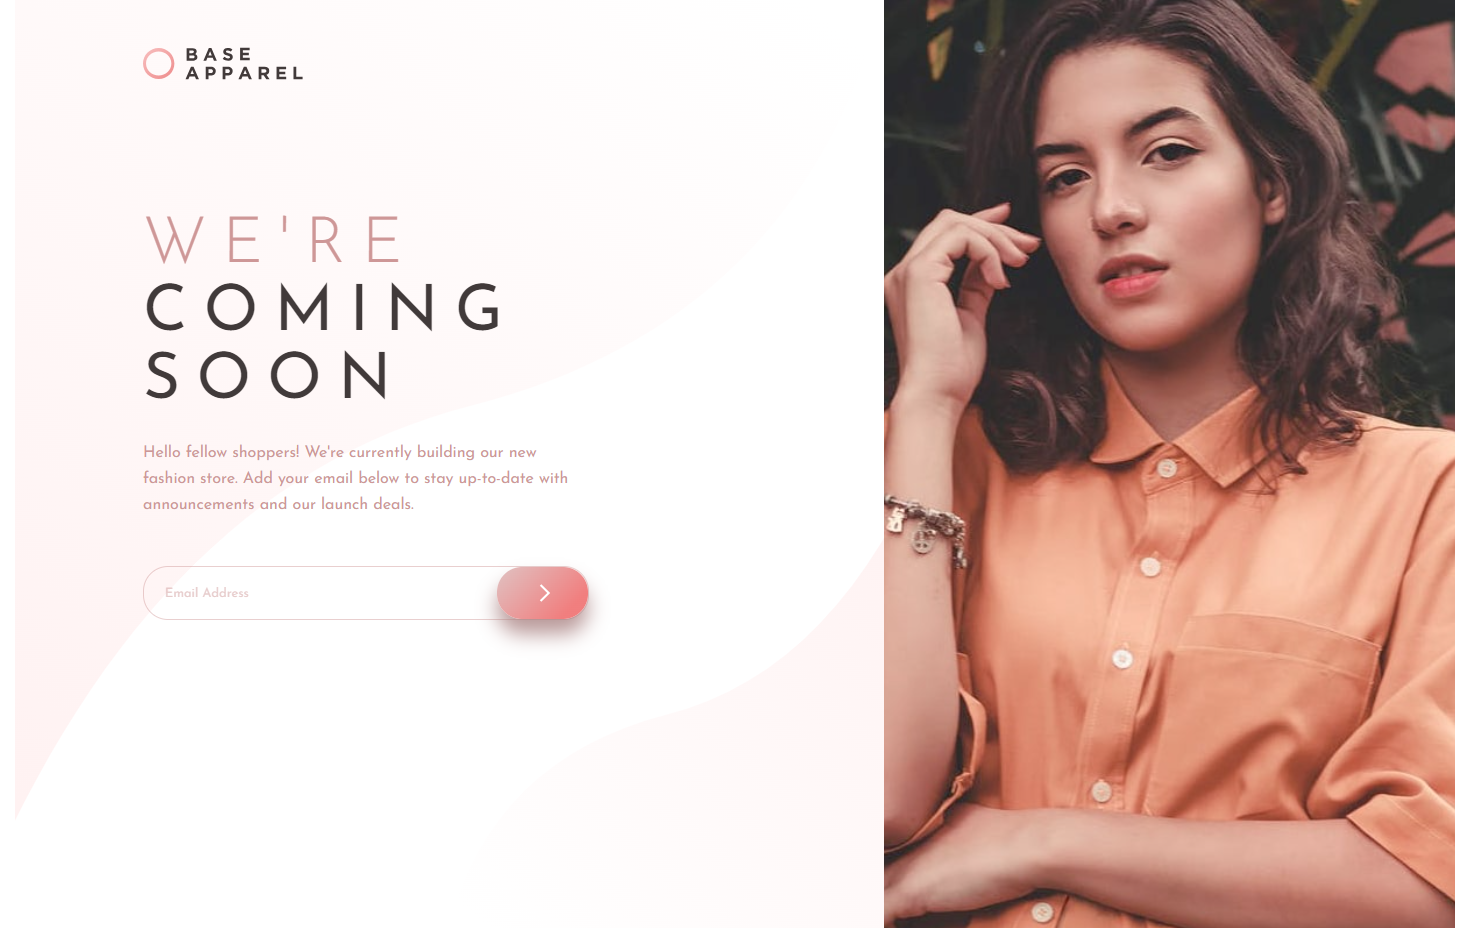
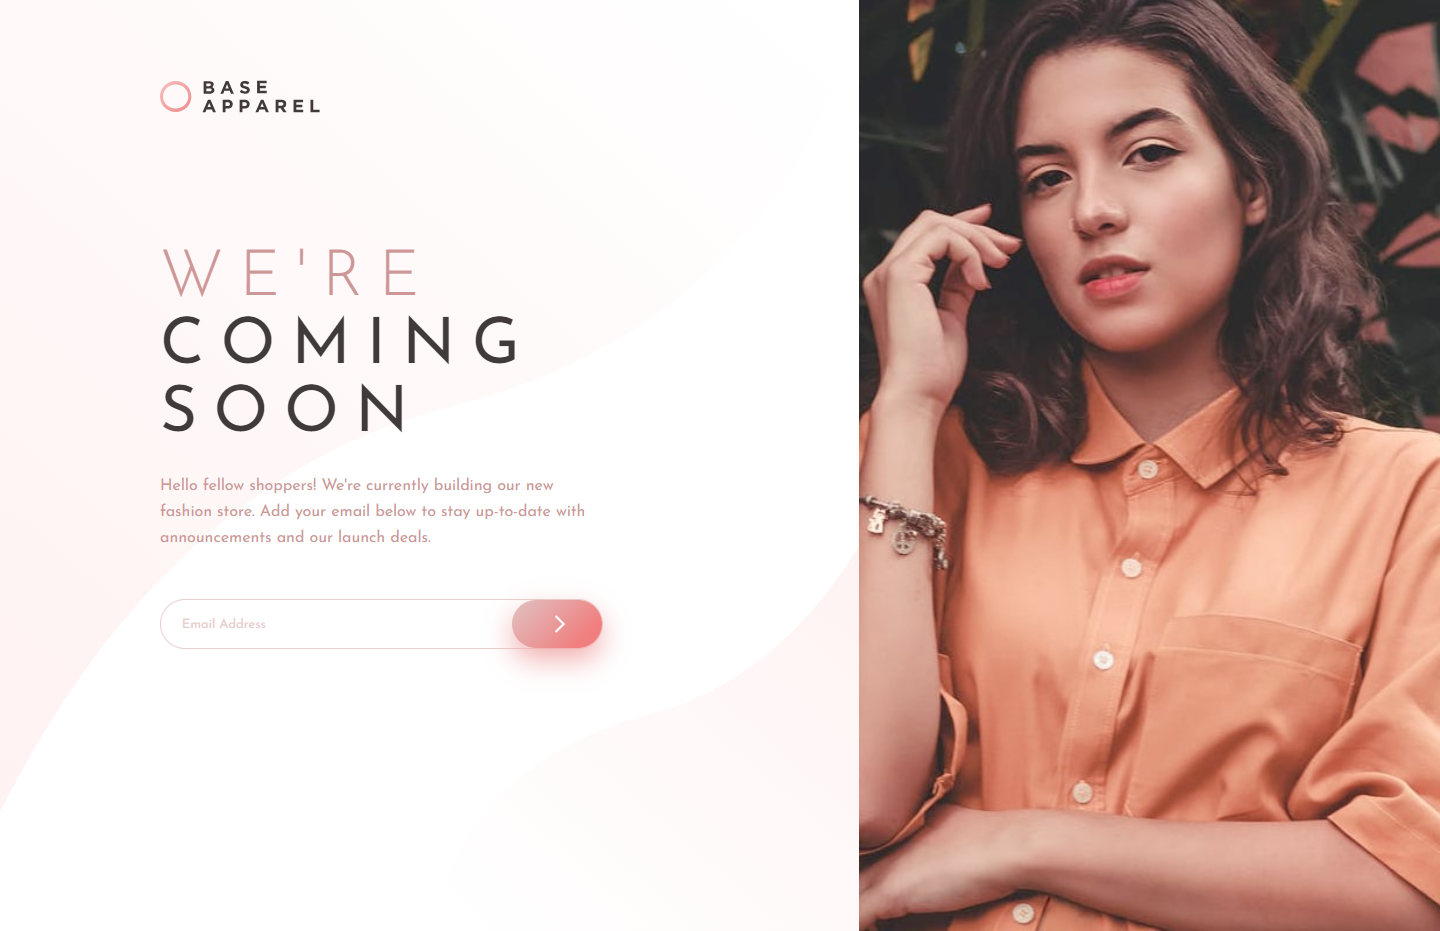
layout fixes

diff --git a/styles/styles.css b/styles/styles.css
@@ -28,7 +28,7 @@ body main {
     display: flex;
     align-content: space-between;
     margin: 0 auto;
-    padding: 4rem 16rem 5rem 10rem;
+    padding: 5rem 16rem 5rem 10rem;
     background: url("../images/bg-pattern-desktop.svg") no-repeat;
     background-size: cover;
     background-position: bottom;
@@ -143,14 +143,14 @@ body main section .form-submit-wrapper .submit {
   height: 16px;
   color: white;
   margin-left: auto;
-  box-shadow: 0 15px 25px rgba(243, 167, 167, 0.932);
+  box-shadow: 0 12px 28px rgba(241, 167, 167, 0.932);
   transition: all 150ms linear;
   cursor: pointer;
 }
 @media (min-width: 1440px) {
   body main section .form-submit-wrapper .submit {
     min-width: 65px;
-    height: 26px;
+    height: 22px;
   }
 }
 body main section .form-submit-wrapper .submit:hover, body main section .form-submit-wrapper .submit:focus {

diff --git a/styles/styles.scss b/styles/styles.scss
@@ -36,7 +36,7 @@ body {
       display: flex;
       align-content: space-between;
       margin: 0 auto;
-      padding: 4rem 16rem 5rem 10rem;
+      padding: 5rem 16rem 5rem 10rem;
       background: url("../images/bg-pattern-desktop.svg") no-repeat;
       background-size: cover;
       background-position: bottom;
@@ -161,13 +161,13 @@ body {
           height: 16px;
           color: white;
           margin-left: auto;
-          box-shadow: 0 15px 25px rgba(243, 167, 167, 0.932);
+          box-shadow: 0 12px 28px rgba(241, 167, 167, 0.932);
           transition: $transition-effect;
           cursor: pointer;
 
           @media (min-width: 1440px) {
             min-width: 65px;
-            height: 26px;
+            height: 22px;
           }
 
           &:hover,

diff --git a/index.html b/index.html
@@ -49,7 +49,7 @@
                 src="./images/icon-error.svg"
                 alt="error"
               />
-              <button type="submit" name="submit" class="submit">
+              <button type="submit" aria-label="submit button" class="submit">
                 <svg
                   xmlns="http://www.w3.org/2000/svg"
                   width="25"
